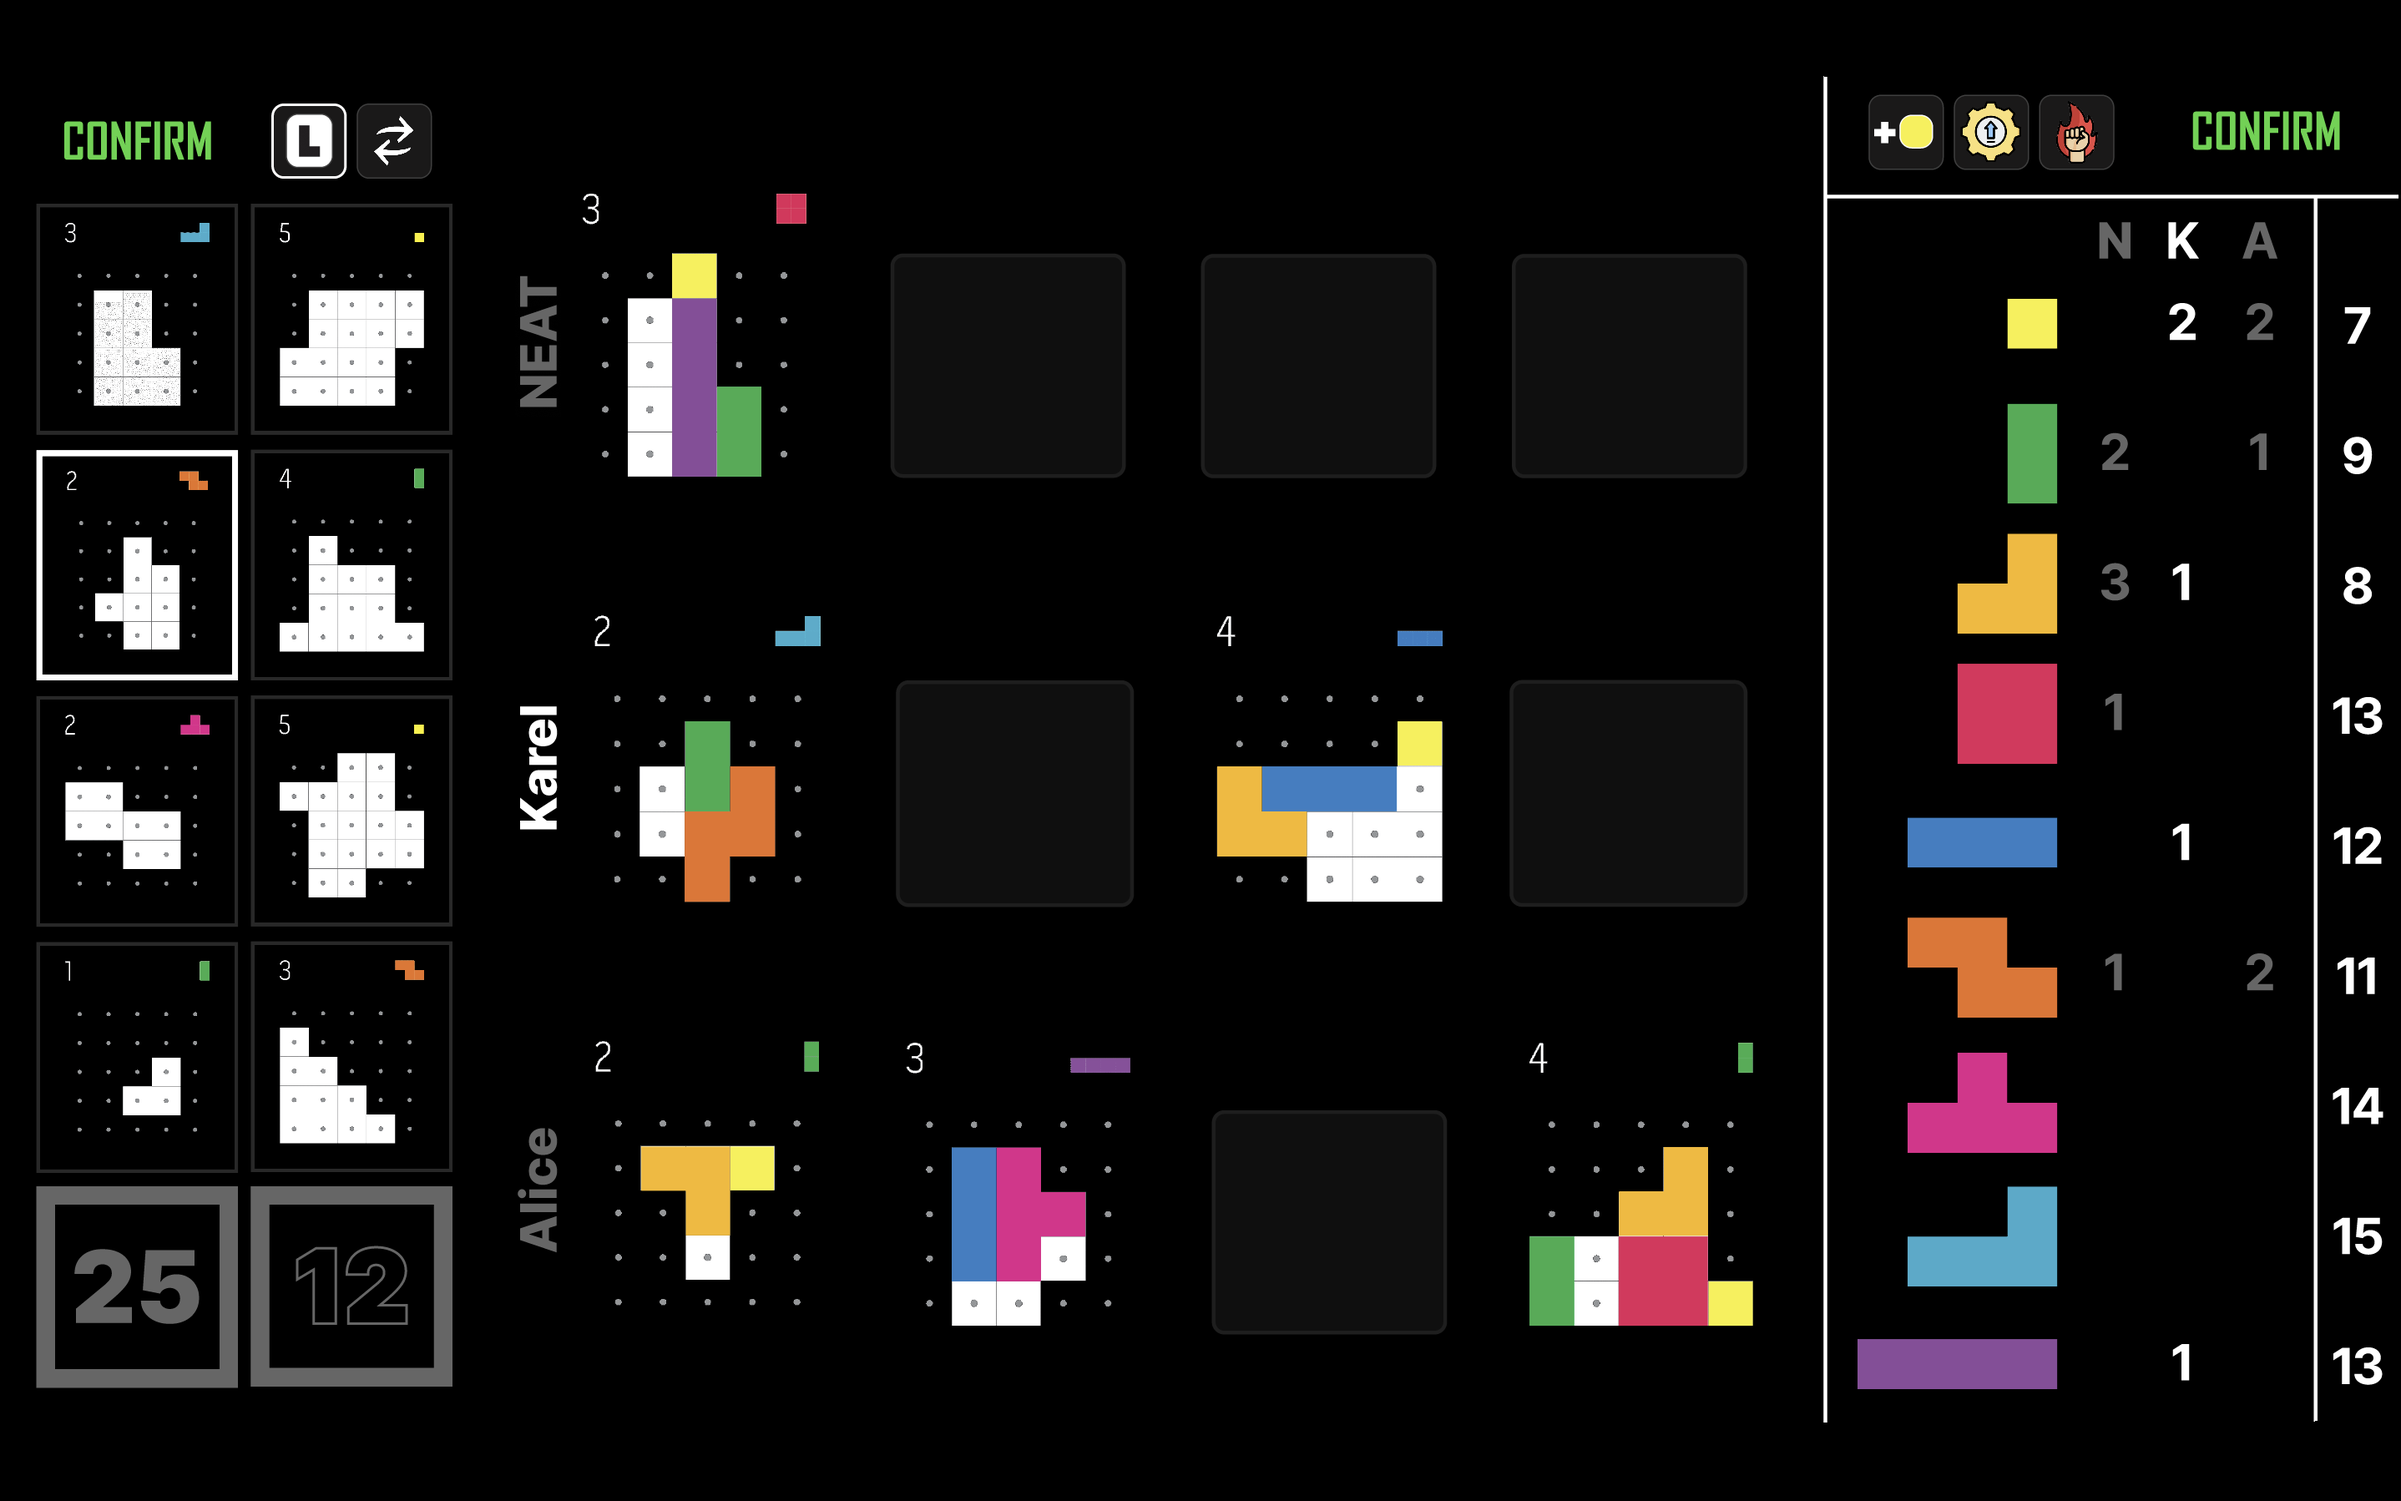
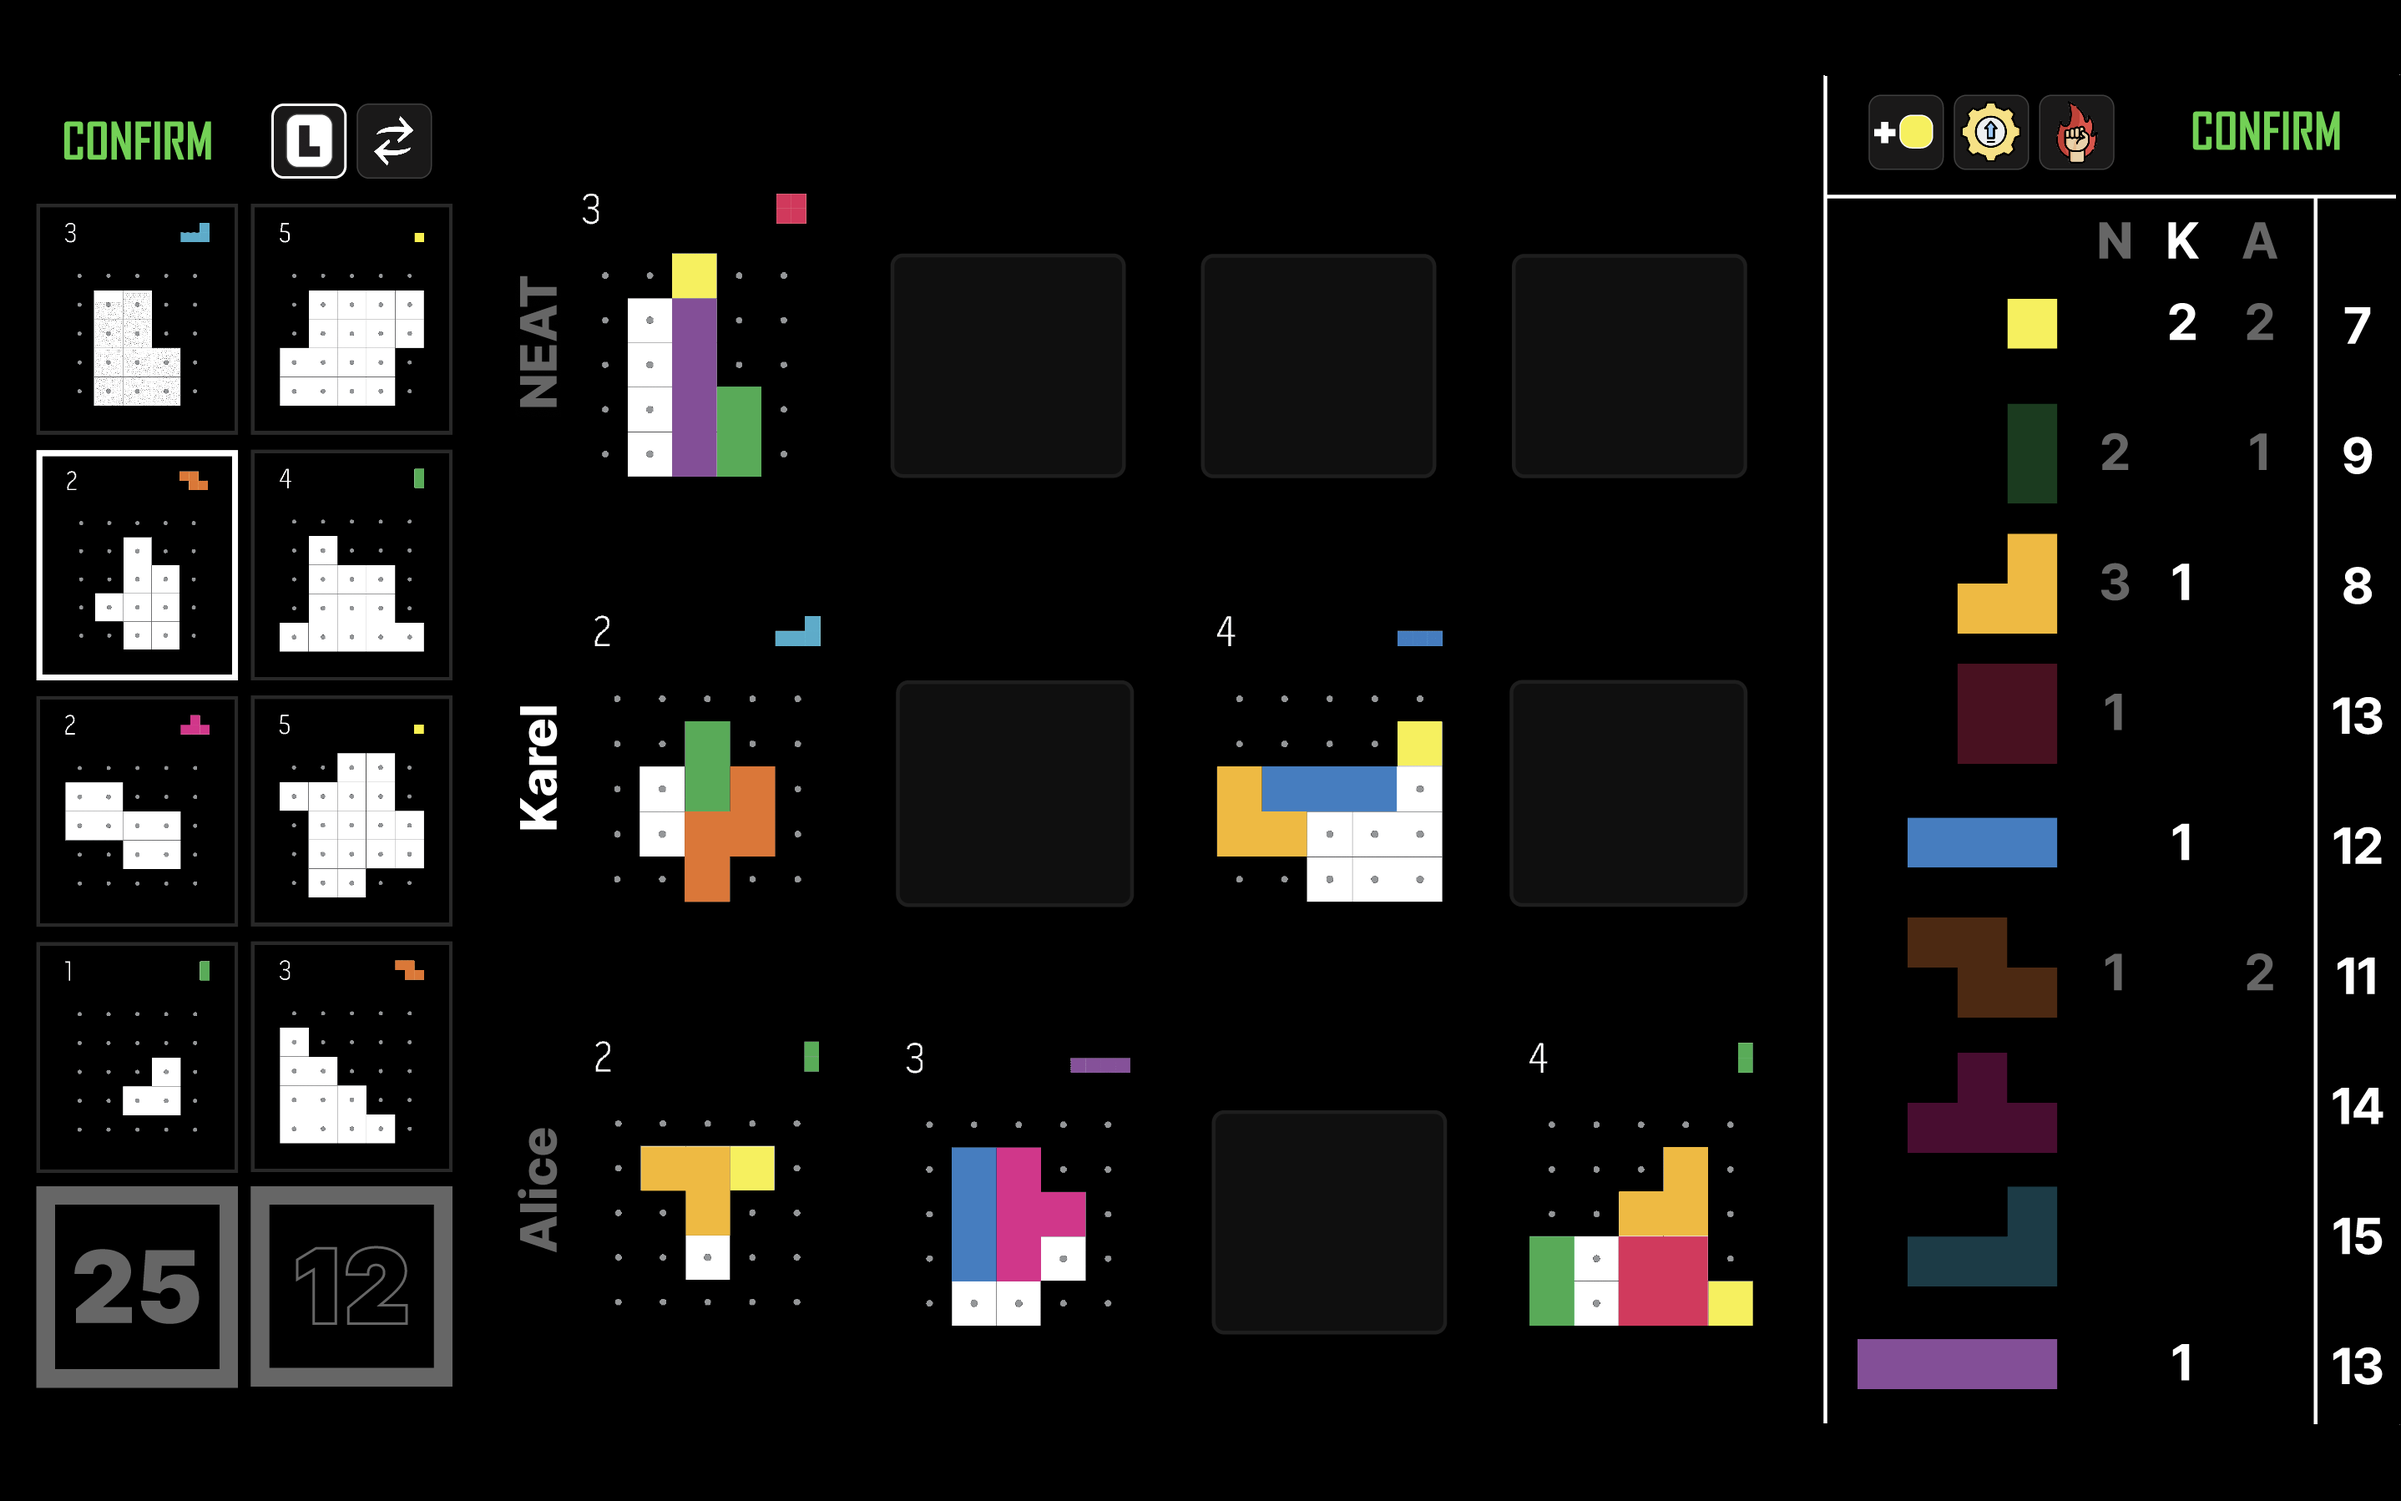
docs: gray out pieces not owned by current player

Changed region(s): [[0.7736, 0.5918, 0.8665, 0.8721], [0.8046, 0.436, 0.8665, 0.5295], [0.8355, 0.2492, 0.8665, 0.3426]]

diff --git a/docs/FunctionDocs/index.md b/docs/FunctionDocs/index.md
@@ -136,6 +136,8 @@ Contains information about the number of pieces owned by each player and the num
 
 For example, NEAT has 3 `L2` pieces, Karel has 1, Alice has 0 and there are 8 left in the shared reserve.
 
+The pieces the current player (Karel) doesn't have are **grayed out**. For example, the shapes which _aren't_ grayed out on the reference [image](#main-game) are `O1`, `L2`, `I3`, `I4`, because Karel has them in his collection.
+
 {% include tip.html content="
 The name and piece column of the current player are **highlighted**.
 "%}
@@ -193,7 +195,7 @@ Once you click an action button in the <u>Action Zone</u>, it will be **highligh
 
 #### Place Piece
 
-Drag a piece from the <u>Piece Zone</u> to the <u>Player Zone</u> and place it on a puzzle.
+Drag a piece you own from the <u>Piece Zone</u> to the <u>Player Zone</u> and place it on a puzzle.
 
 - If you release the mouse button while the piece isn't over any of your puzzles, it will cancel the action.
 - If you release the piece over one of your puzzles, it will stay where you left it.
